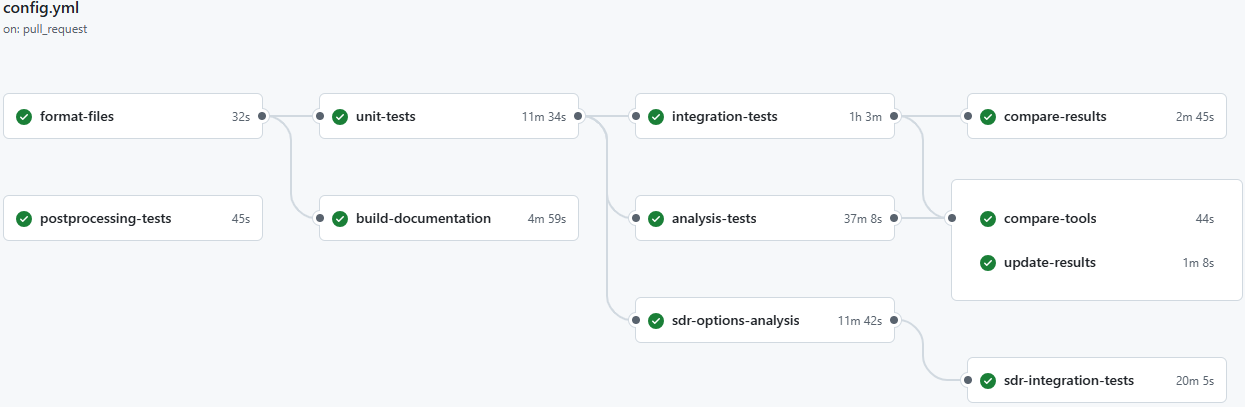
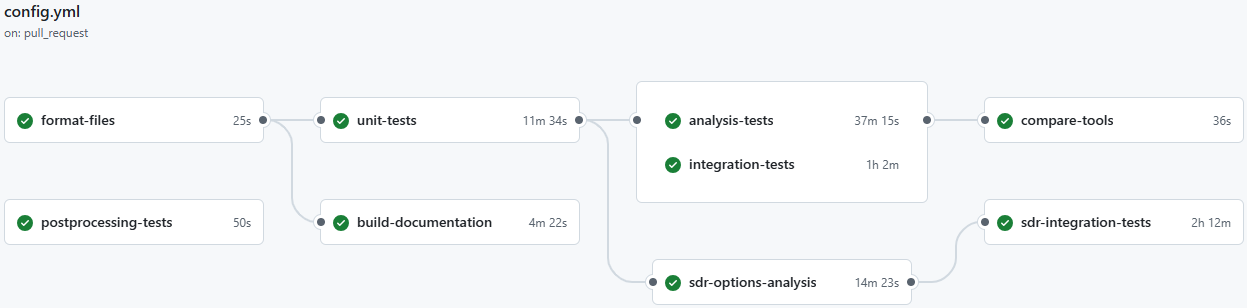
Update testing infrastructure workflow png, and remove feature_results artifact.

diff --git a/docs/technical_development_guide/source/advanced_tutorial/testing_infrastructure/index.rst b/docs/technical_development_guide/source/advanced_tutorial/testing_infrastructure/index.rst
@@ -177,7 +177,6 @@ Uses ``project_testing/testing_baseline.yml`` and ``project_national/national_ba
 
 Artifacts uploaded:
 
-- feature_results
 - buildstockbatch_results_csvs
 - raw_simulation_output
 
@@ -309,7 +308,6 @@ Artifacts produced if tests are successful:
 - documentation: A current version of the ResStock documentation in Read-the-Docs and the Technical Reference Guide PDF.
 - precomputed_buildstocks: Precomputed `buildstock.csv` for ``test/test_yml_files``.
 - run_analysis_results_csvs: Annual results from the analysis tests.
-- feature_results: Processed baseline annual and timeseries results from the integration tests.
 - buildstockbatch_results_csvs: Annual results from the integration tests.
 - raw_simulation_output: Unprocessed simulation output files from the integration tests.
 - comparisons: Plots that show the difference in the results between the base branch and feature branch. Helpful during model changes, not characteristics changes.